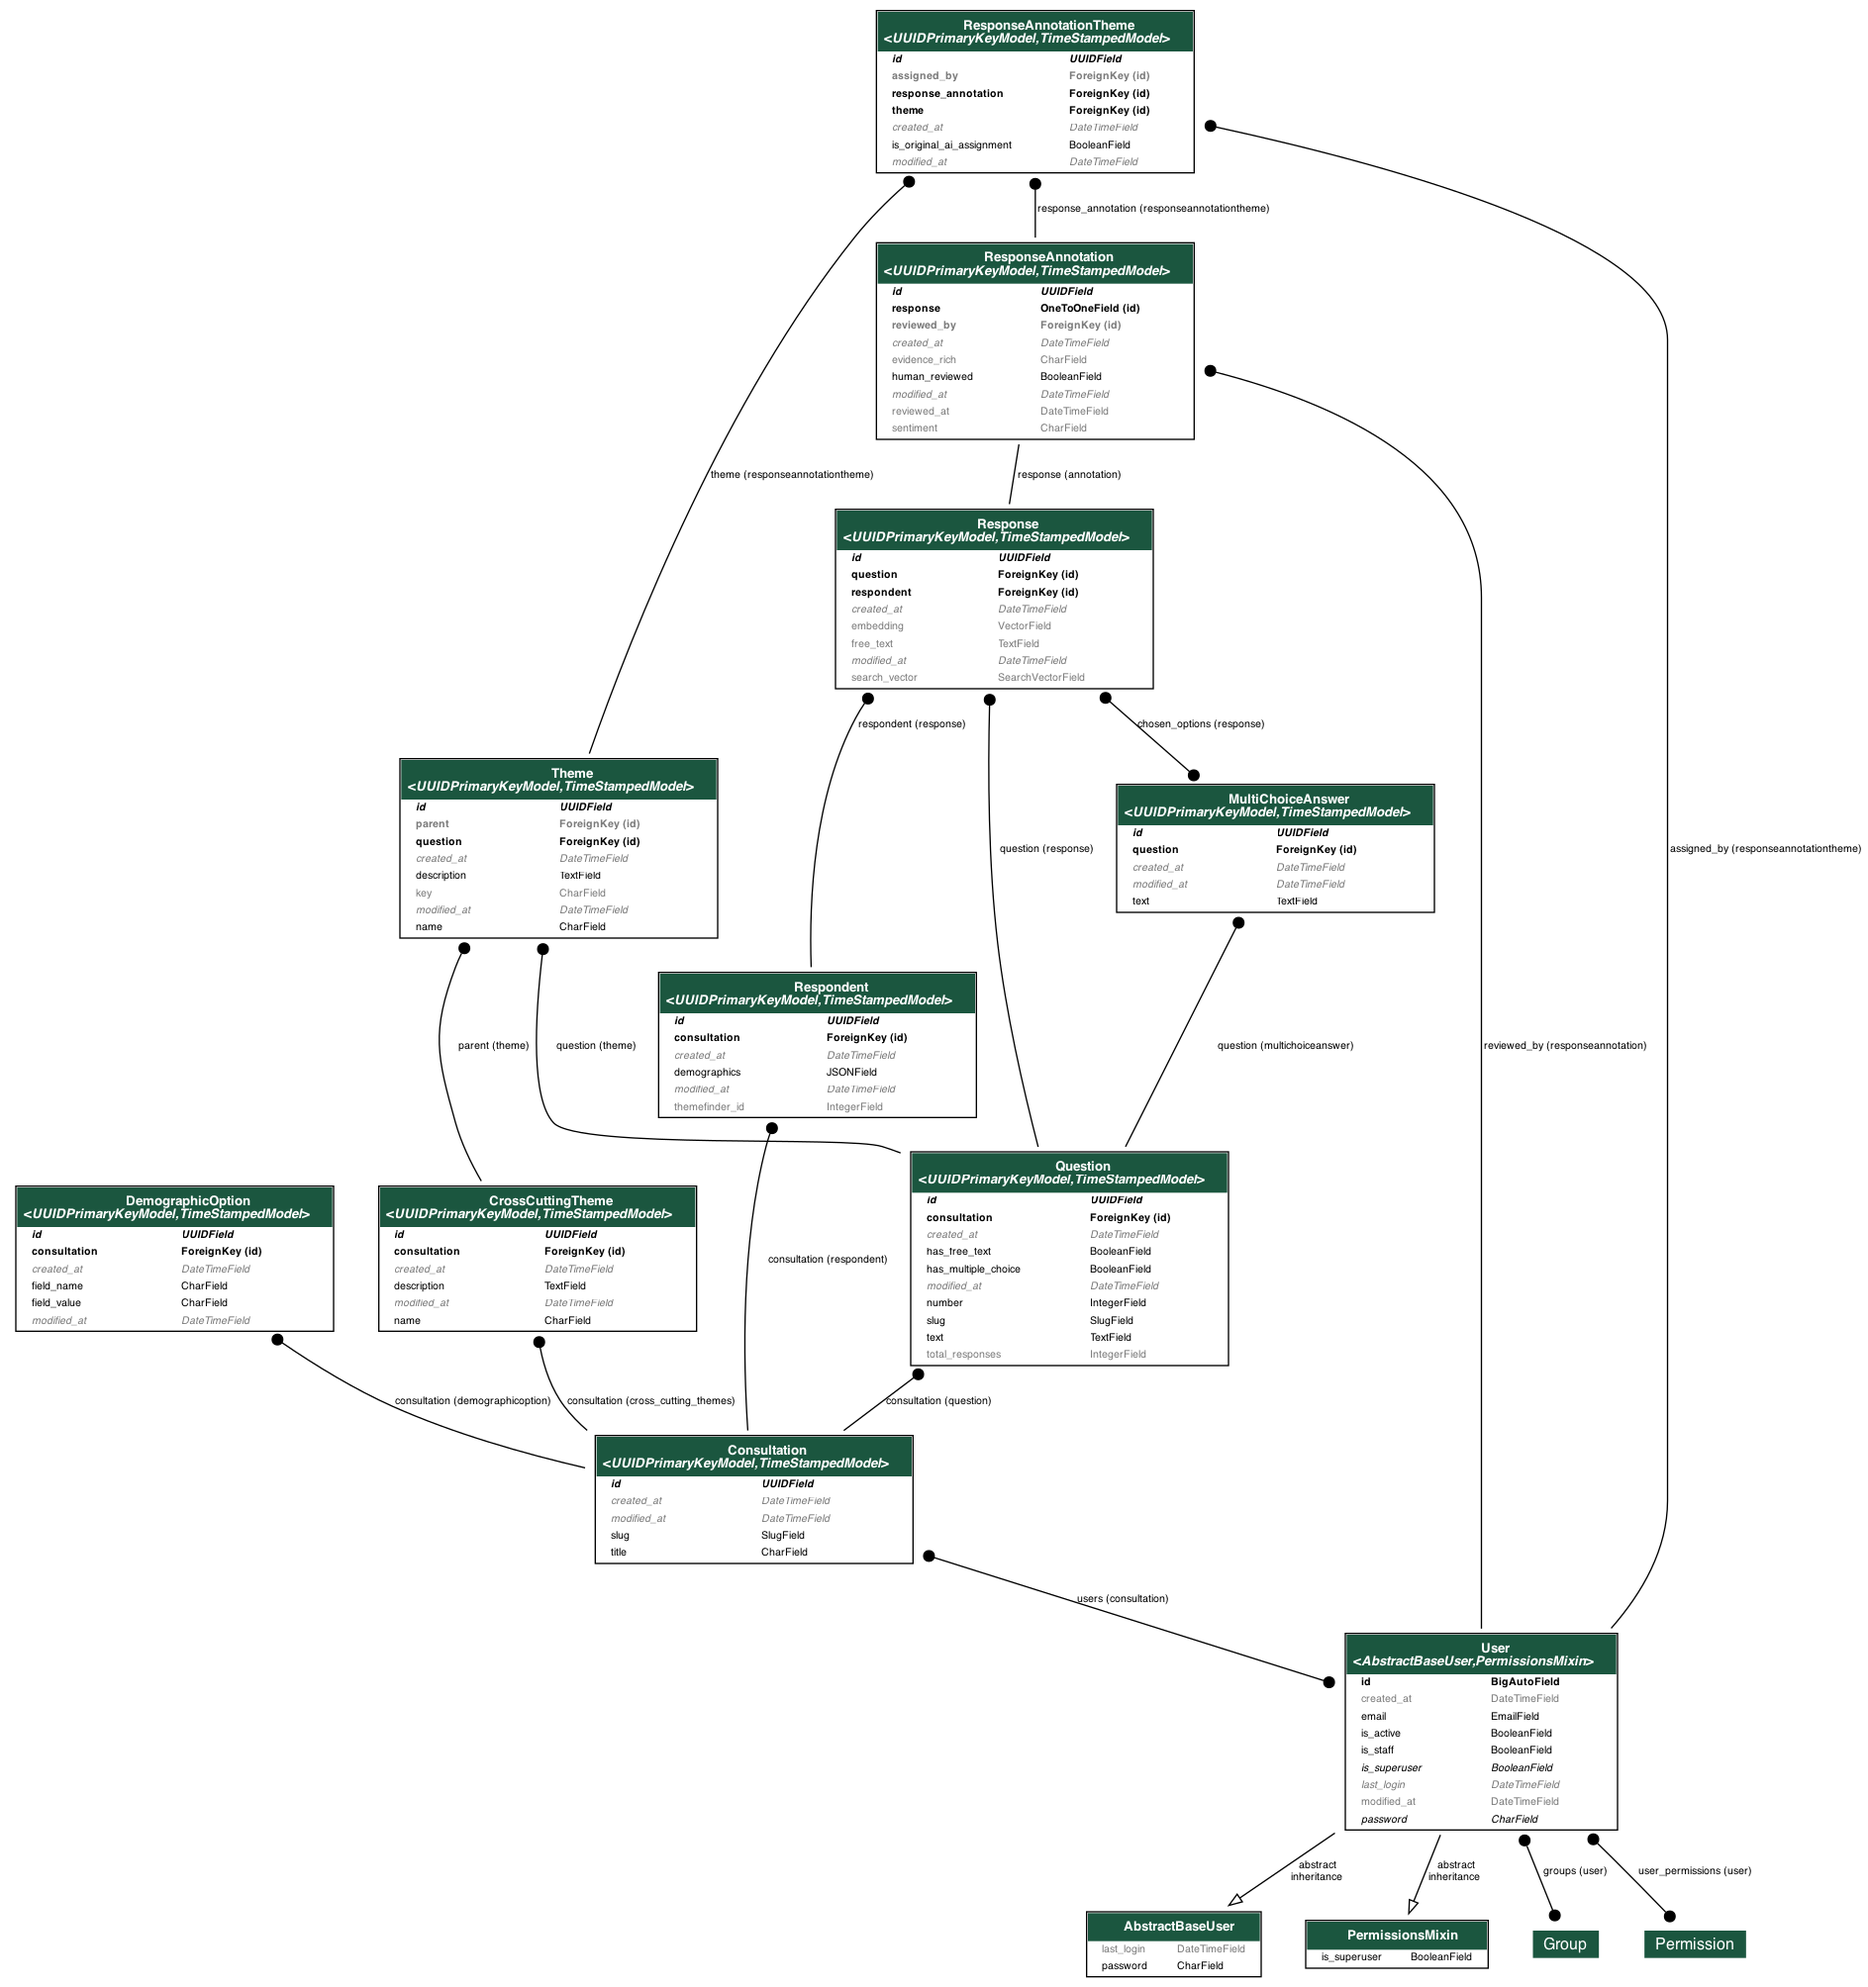
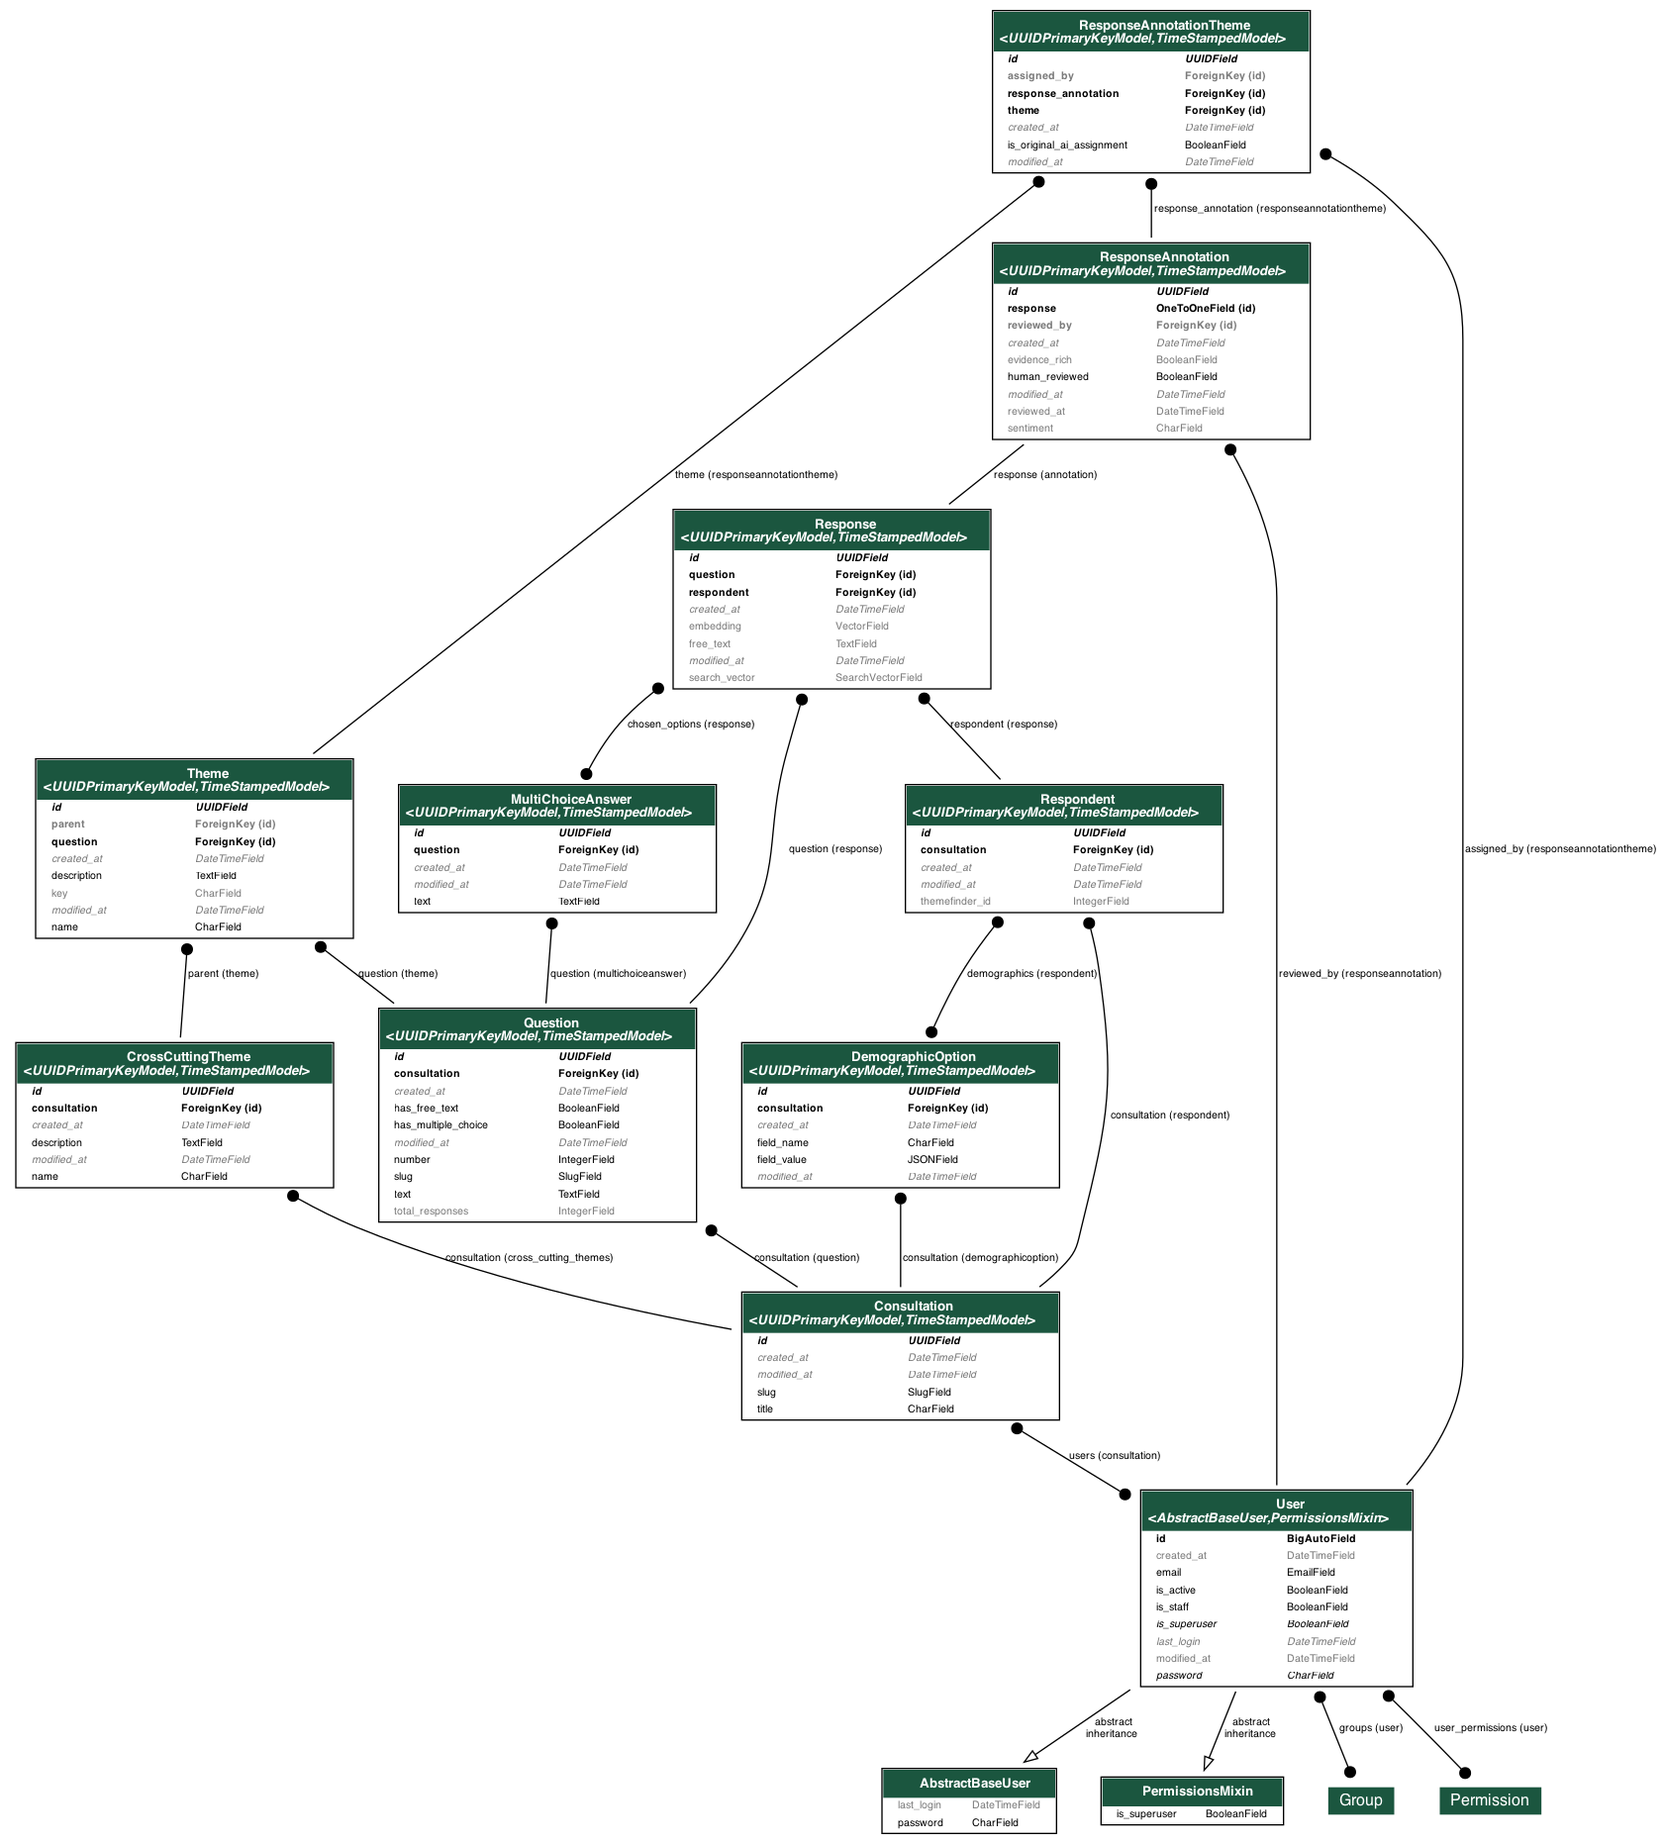
can update response

diff --git a/tests/unit/api/test_views.py b/tests/unit/api/test_views.py
@@ -247,7 +247,6 @@ class TestThemeInformationAPIView:
 
         # Verify theme structure
         for theme_data in themes:
-            assert "id" in theme_data
             assert "name" in theme_data
             assert "description" in theme_data
 
@@ -350,8 +349,8 @@ class TestThemeAggregationsAPIView:
 
 
 @pytest.mark.django_db
-class TestFilteredResponsesAPIView:
-    def test_get_filtered_responses_basic(self, client, consultation_user, free_text_question):
+class TestResponsesAPIView:
+    def test_get_responses_basic(self, client, consultation_user, free_text_question):
         """Test API endpoint returns filtered responses correctly"""
         # Create test data
         respondent = RespondentFactory(
@@ -389,9 +388,7 @@ class TestFilteredResponsesAPIView:
         assert respondent_data["free_text_answer_text"] == "Test response"
         assert respondent_data["demographic_data"] == {"individual": True}
 
-    def test_get_filtered_responses_with_pagination(
-        self, client, consultation_user, free_text_question
-    ):
+    def test_get_responses_with_pagination(self, client, consultation_user, free_text_question):
         """Test API endpoint pagination"""
         # Create multiple respondents
         for i in range(5):
@@ -416,7 +413,7 @@ class TestFilteredResponsesAPIView:
         assert data["has_more_pages"]
         assert data["filtered_total"] == 5
 
-    def test_get_filtered_responses_with_demographic_filters(
+    def test_get_responses_with_demographic_filters(
         self, client, consultation_user, free_text_question
     ):
         """Test API endpoint with demographic filtering"""
@@ -454,7 +451,7 @@ class TestFilteredResponsesAPIView:
         assert len(data["all_respondents"]) == 1
         assert data["all_respondents"][0]["identifier"] == str(respondent1.identifier)
 
-    def test_get_filtered_responses_with_theme_filters(
+    def test_get_responses_with_theme_filters(
         self, client, consultation_user, free_text_question, theme, theme2
     ):
         """Test API endpoint with theme filtering using AND logic"""
@@ -506,9 +503,7 @@ class TestFilteredResponsesAPIView:
         assert len(data["all_respondents"]) == 1
         assert data["all_respondents"][0]["identifier"] == str(respondent1.identifier)
 
-    def test_get_filtered_responses_invalid_parameters(
-        self, client, consultation_user, free_text_question
-    ):
+    def test_get_responses_invalid_parameters(self, client, consultation_user, free_text_question):
         """Test API endpoint handles invalid parameters"""
         client.force_login(consultation_user)
         url = reverse(
@@ -526,6 +521,52 @@ class TestFilteredResponsesAPIView:
         # Test invalid page number
         response = client.get(url + "?page=0")
         assert response.status_code == 400
+
+    def test_update_evidence_rich(self, client, consultation_user, free_text_annotation):
+        client.force_login(consultation_user)
+        url = reverse(
+            "response-detail",
+            kwargs={
+                "consultation_pk": free_text_annotation.response.question.consultation.id,
+                "question_pk": free_text_annotation.response.question.id,
+                "pk": free_text_annotation.response.id,
+            },
+        )
+
+        assert free_text_annotation.evidence_rich is True
+
+        response = client.patch(
+            url,
+            data='{"evidenceRich": false}',
+            headers={"Content-Type": "application/json"},
+        )
+        assert response.status_code == 200
+        assert response.json()["evidenceRich"] is False
+        free_text_annotation.refresh_from_db()
+        assert free_text_annotation.evidence_rich is False
+
+    def test_update_themes(self, client, consultation_user, free_text_annotation):
+        client.force_login(consultation_user)
+        url = reverse(
+            "response-detail",
+            kwargs={
+                "consultation_pk": free_text_annotation.response.question.consultation.id,
+                "question_pk": free_text_annotation.response.question.id,
+                "pk": free_text_annotation.response.id,
+            },
+        )
+
+        assert list(free_text_annotation.themes.values_list("key", flat=True)) == ["A"]
+
+        response = client.patch(
+            url,
+            data='{"themes": [{"key": "B"}]}',
+            headers={"Content-Type": "application/json"},
+        )
+        assert response.status_code == 200
+        assert [x["key"] for x in response.json()["themes"]] == ["B"]
+        free_text_annotation.refresh_from_db()
+        assert list(free_text_annotation.themes.values_list("key", flat=True)) == ["B"]
 
 
 @pytest.mark.django_db

diff --git a/consultation_analyser/consultations/api/serializers.py b/consultation_analyser/consultations/api/serializers.py
@@ -78,11 +78,11 @@ class DemographicAggregationsSerializer(serializers.Serializer):
 
 
 class ThemeSerializer(serializers.ModelSerializer):
-    id = serializers.UUIDField()
+    id = serializers.UUIDField(read_only=True)
 
     class Meta:
         model = Theme
-        fields = ["id", "name", "description"]
+        fields = ["id", "name", "description", "key"]
 
 
 class ThemeInformationSerializer(serializers.Serializer):
@@ -138,26 +138,39 @@ class MultiChoiceAnswerCount(serializers.Serializer):
 
 
 class ResponseSerializer(serializers.ModelSerializer):
-    identifier = serializers.CharField(source="respondent.themefinder_id")
-    free_text_answer_text = serializers.CharField(source="free_text")
-    demographic_data = serializers.SerializerMethodField()
-    themes = ThemeSerializer(source="annotation.themes", many=True, read_only=True, default=[])
+    identifier = serializers.CharField(source="respondent.themefinder_id", read_only=True)
+    free_text_answer_text = serializers.CharField(source="free_text", read_only=True)
+    demographic_data = serializers.SerializerMethodField(read_only=True)
+    themes = ThemeSerializer(source="annotation.themes", many=True, default=[])
     multiple_choice_answer = serializers.SlugRelatedField(
         source="chosen_options", slug_field="text", many=True, read_only=True
     )
     evidenceRich = serializers.BooleanField(source="annotation.evidence_rich", default=False)
 
     def get_demographic_data(self, obj) -> dict[str, Any] | None:
-        def encode(txt: str):
-            if isinstance(txt, (bool, str)):
-                return txt
-            return str(txt)
+        return {d.field_name: d.field_value for d in obj.respondent.demographics.all()}
 
-        return {d.field_name: encode(d.field_value) for d in obj.respondent.demographics.all()}
+    def update(self, instance: Response, validated_data):
+        if annotation := validated_data.get("annotation"):
+            if "evidence_rich" in annotation:
+                instance.annotation.evidence_rich = annotation.pop("evidence_rich")
+
+            if themes := annotation.get("themes"):
+                new_themes = []
+                for theme in themes:
+                    new_themes.append(
+                        Theme.objects.get(key=theme["key"], question=instance.question)
+                    )
+                instance.annotation.themes.set(new_themes)
+
+            instance.annotation.save()
+
+        return instance
 
     class Meta:
         model = Response
         fields = [
+            "id",
             "identifier",
             "free_text_answer_text",
             "demographic_data",

diff --git a/tests/unit/api/test_serializers.py b/tests/unit/api/test_serializers.py
@@ -72,7 +72,10 @@ class TestThemeSerializer:
         data = {"id": uuid4(), "name": "Test Theme", "description": "A test theme description"}
         serializer = ThemeSerializer(data=data)
         assert serializer.is_valid()
-        assert serializer.validated_data == data
+        assert serializer.validated_data == {
+            "description": "A test theme description",
+            "name": "Test Theme",
+        }
 
     def test_missing_required_fields(self):
         """Test theme serializer with missing required fields"""
@@ -84,10 +87,10 @@ class TestThemeSerializer:
 
     def test_invalid_id_type(self):
         """Test theme serializer with invalid ID type"""
-        data = {"id": "invalid", "name": "Test Theme", "description": "A test theme description"}
+        data = {"id": "invalid", "key": "Test Theme", "description": "A test theme description"}
         serializer = ThemeSerializer(data=data)
         assert not serializer.is_valid()
-        assert "id" in serializer.errors
+        assert "name" in serializer.errors
 
 
 class TestThemeInformationSerializer:
@@ -101,7 +104,13 @@ class TestThemeInformationSerializer:
         }
         serializer = ThemeInformationSerializer(data=data)
         assert serializer.is_valid()
-        assert serializer.validated_data == data
+        expected = {
+            "themes": [
+                {"name": "Theme A", "description": "Description A"},
+                {"name": "Theme B", "description": "Description B"},
+            ]
+        }
+        assert serializer.validated_data == expected
 
     def test_empty_themes(self):
         """Test theme information serializer with empty themes list"""

diff --git a/tests/conftest.py b/tests/conftest.py
@@ -7,7 +7,14 @@ from moto import mock_aws
 from rest_framework_simplejwt.tokens import RefreshToken
 
 from consultation_analyser.constants import DASHBOARD_ACCESS
-from consultation_analyser.consultations.models import DemographicOption, Response
+from consultation_analyser.consultations.models import (
+    DemographicOption,
+    Respondent,
+    Response,
+    ResponseAnnotation,
+    ResponseAnnotationTheme,
+    Theme,
+)
 from consultation_analyser.factories import (
     ConsultationFactory,
     MultiChoiceAnswerFactory,
@@ -242,6 +249,36 @@ def free_text_question(consultation):
     )
     yield question
     question.delete()
+
+
+@pytest.fixture
+def respondent_1(consultation):
+    respondent = Respondent.objects.create(consultation=consultation)
+    yield respondent
+    respondent.delete()
+
+
+@pytest.fixture
+def free_text_response(free_text_question, respondent_1):
+    response = Response.objects.create(question=free_text_question, respondent=respondent_1)
+
+    yield response
+    response.delete()
+
+
+@pytest.fixture
+def free_text_annotation(free_text_response):
+    annotation = ResponseAnnotation.objects.create(response=free_text_response, evidence_rich=True)
+    theme_a = Theme.objects.create(question=free_text_response.question, key="A")
+    annotation_a = ResponseAnnotationTheme.objects.create(
+        response_annotation=annotation, theme=theme_a
+    )
+    theme_b = Theme.objects.create(question=free_text_response.question, key="B")
+    yield annotation
+    annotation_a.delete()
+    theme_a.delete()
+    theme_b.delete()
+    annotation.delete()
 
 
 @pytest.fixture

diff --git a/consultation_analyser/consultations/api/views.py b/consultation_analyser/consultations/api/views.py
@@ -7,11 +7,12 @@ from django.http import HttpResponse, JsonResponse
 from django.shortcuts import get_object_or_404
 from magic_link.exceptions import InvalidLink
 from magic_link.models import MagicLink
+from rest_framework import mixins
 from rest_framework.decorators import action, api_view, permission_classes
 from rest_framework.pagination import PageNumberPagination
 from rest_framework.permissions import IsAuthenticated
 from rest_framework.response import Response
-from rest_framework.viewsets import ReadOnlyModelViewSet
+from rest_framework.viewsets import GenericViewSet, ReadOnlyModelViewSet
 from rest_framework_simplejwt.tokens import AccessToken
 
 from .. import models
@@ -241,7 +242,12 @@ class BespokeResultsSetPagination(PageNumberPagination):
         )
 
 
-class ResponseViewSet(ReadOnlyModelViewSet):
+class ResponseViewSet(
+    mixins.RetrieveModelMixin,
+    mixins.UpdateModelMixin,
+    mixins.ListModelMixin,
+    GenericViewSet,
+):
     serializer_class = ResponseSerializer
     permission_classes = [HasDashboardAccess, CanSeeConsultation]
     pagination_class = BespokeResultsSetPagination

diff --git a/consultation_analyser/consultations/models.py b/consultation_analyser/consultations/models.py
@@ -227,7 +227,7 @@ class Theme(UUIDPrimaryKeyModel, TimeStampedModel):
     question = models.ForeignKey(Question, on_delete=models.CASCADE)
     name = models.CharField(max_length=256)
     description = models.TextField()
-    key = models.CharField(max_length=128, null=True, blank=True)
+    key = models.CharField(max_length=128, null=True)
     parent = models.ForeignKey("CrossCuttingTheme", on_delete=models.CASCADE, null=True, blank=True)
 
     class Meta(UUIDPrimaryKeyModel.Meta, TimeStampedModel.Meta):

diff --git a/tests/unit/api/test_utils.py b/tests/unit/api/test_utils.py
@@ -382,6 +382,7 @@ class TestBuildRespondentDataFast:
 
         # Verify all expected keys are present
         expected_keys = {
+            "id",
             "identifier",
             "free_text_answer_text",
             "demographic_data",
